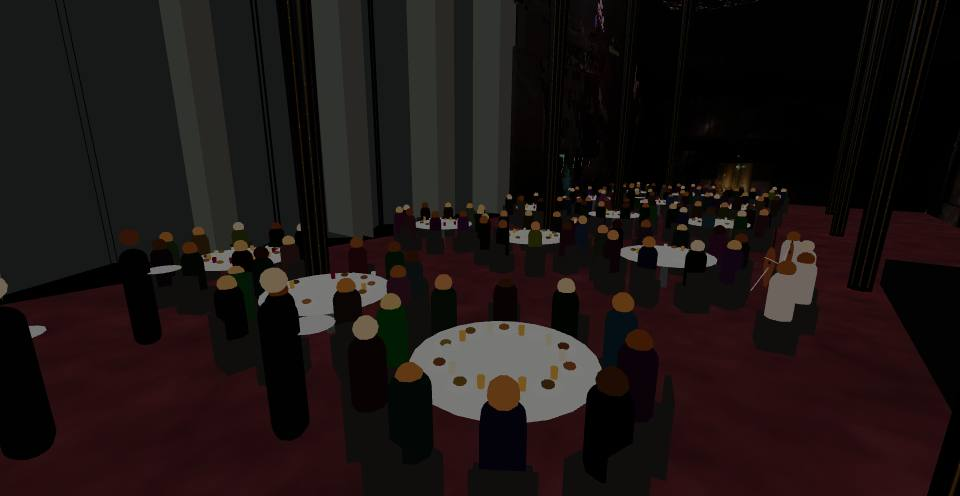
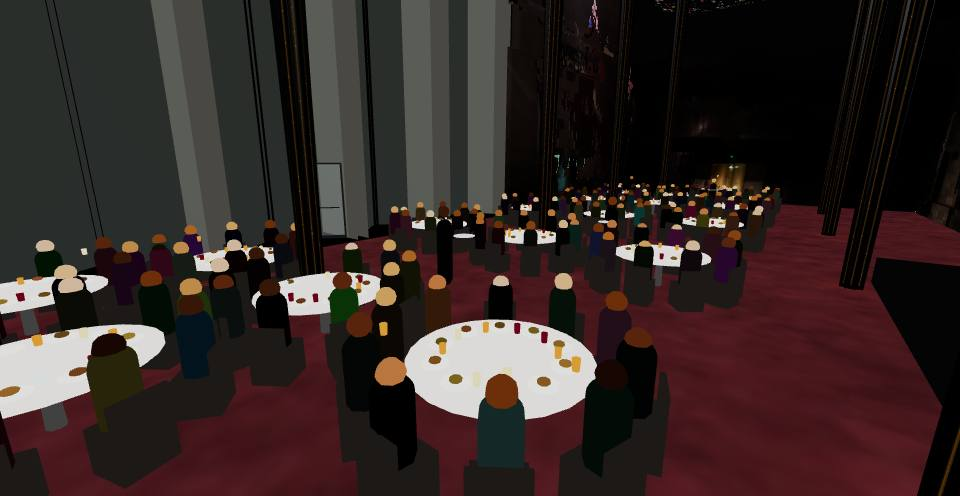
Shot 2 (Lloyd's note, V8): two more tables in the lane the camera looks down (u 18.9), in the second and third rows, so the left of a wide picture is not bare carpet; the first row is left out because it would sit in the carpet hold; that lane is no longer walked
Claude-Session: https://claude.ai/code/session_01TvFyJ7jgaVEcvXM9wy2J9o

diff --git a/index.html b/index.html
@@ -2297,11 +2297,14 @@ function updateBanquet(dt,t){
 }
 function buildDinner(ctx){
  const {y0,uLo,uHi,dLo,dHi,rnd}=ctx; const c=new THREE.Color();
- const rows=3, cols=8, nT=rows*cols, seats=10, nG=nT*seats;
+ // (Lloyd, shot 2 V8) two more tables in the lane the camera looks down (u 18.9), in the
+ // second and third rows (the first would sit in shot 2's carpet hold), so the left of a wide
+ // picture is not bare carpet; that lane is no longer walked
+ const rows=3, cols=8, nT=rows*cols+2, seats=10, nG=nT*seats;
  const uStep=(uHi-uLo-4)/(cols-1), dRow=[6.9,10.1,13.3];
  // corridors: a vertical lane between each pair of table columns (and the two ends), and a
  // horizontal lane through each row gap; the rings reach radius 1.25, the gaps are 0.7+
- const lanesU=[uLo+0.9]; for(let i=0;i<cols-1;i++)lanesU.push(uLo+2+uStep*(i+0.5)); lanesU.push(uHi-0.9);
+ const lanesU=[uLo+0.9]; for(let i=0;i<cols-1;i++)lanesU.push(uLo+2+uStep*(i+0.5)); lanesU.push(uHi-0.9); lanesU.splice(3,1);   /* the u 18.9 lane holds tables now */
  const lanesD=[8.5,11.7,14.9];
  const tm=new THREE.InstancedMesh(new THREE.CylinderGeometry(0.9,0.9,0.04,24),eventMat(0xe9e6df,0xf4f2ec),nT);
  const lm=new THREE.InstancedMesh(new THREE.CylinderGeometry(0.06,0.08,0.72,8),eventMat(0x4a4a4a,0x6a6a6a),nT);
@@ -2315,8 +2318,9 @@ function buildDinner(ctx){
  dinner={bm,hm,fm,km,nG,y0,seat:[],hasFood:[],foodBase:[],glassBase:[],wander:[],waiters:null,quartet:null,chair:[],cm,bk,
   nav:{tables:[],lanesU,lanesD}};
  let k=0;
- for(let r=0;r<rows;r++)for(let cix=0;cix<cols;cix++){
-  const i=r*cols+cix, u=uLo+2+uStep*cix, d=dRow[r]; dinner.nav.tables.push([u,d]);
+ const TP=[]; for(let r=0;r<rows;r++)for(let cix=0;cix<cols;cix++)TP.push([uLo+2+uStep*cix,dRow[r]]); for(const d of dRow.slice(1))TP.push([18.9,d]);
+ for(let i=0;i<TP.length;i++){
+  const [u,d]=TP[i]; dinner.nav.tables.push([u,d]);
   const pos=eventPoint(u,0,d);
   _cQ.identity(); _cM.compose(_pV.set(pos.x,y0+0.74,pos.z),_cQ,{x:1,y:1,z:1}); tm.setMatrixAt(i,_cM);
   _cM.compose(_pV.set(pos.x,y0+0.36,pos.z),_cQ,{x:1,y:1,z:1}); lm.setMatrixAt(i,_cM);
